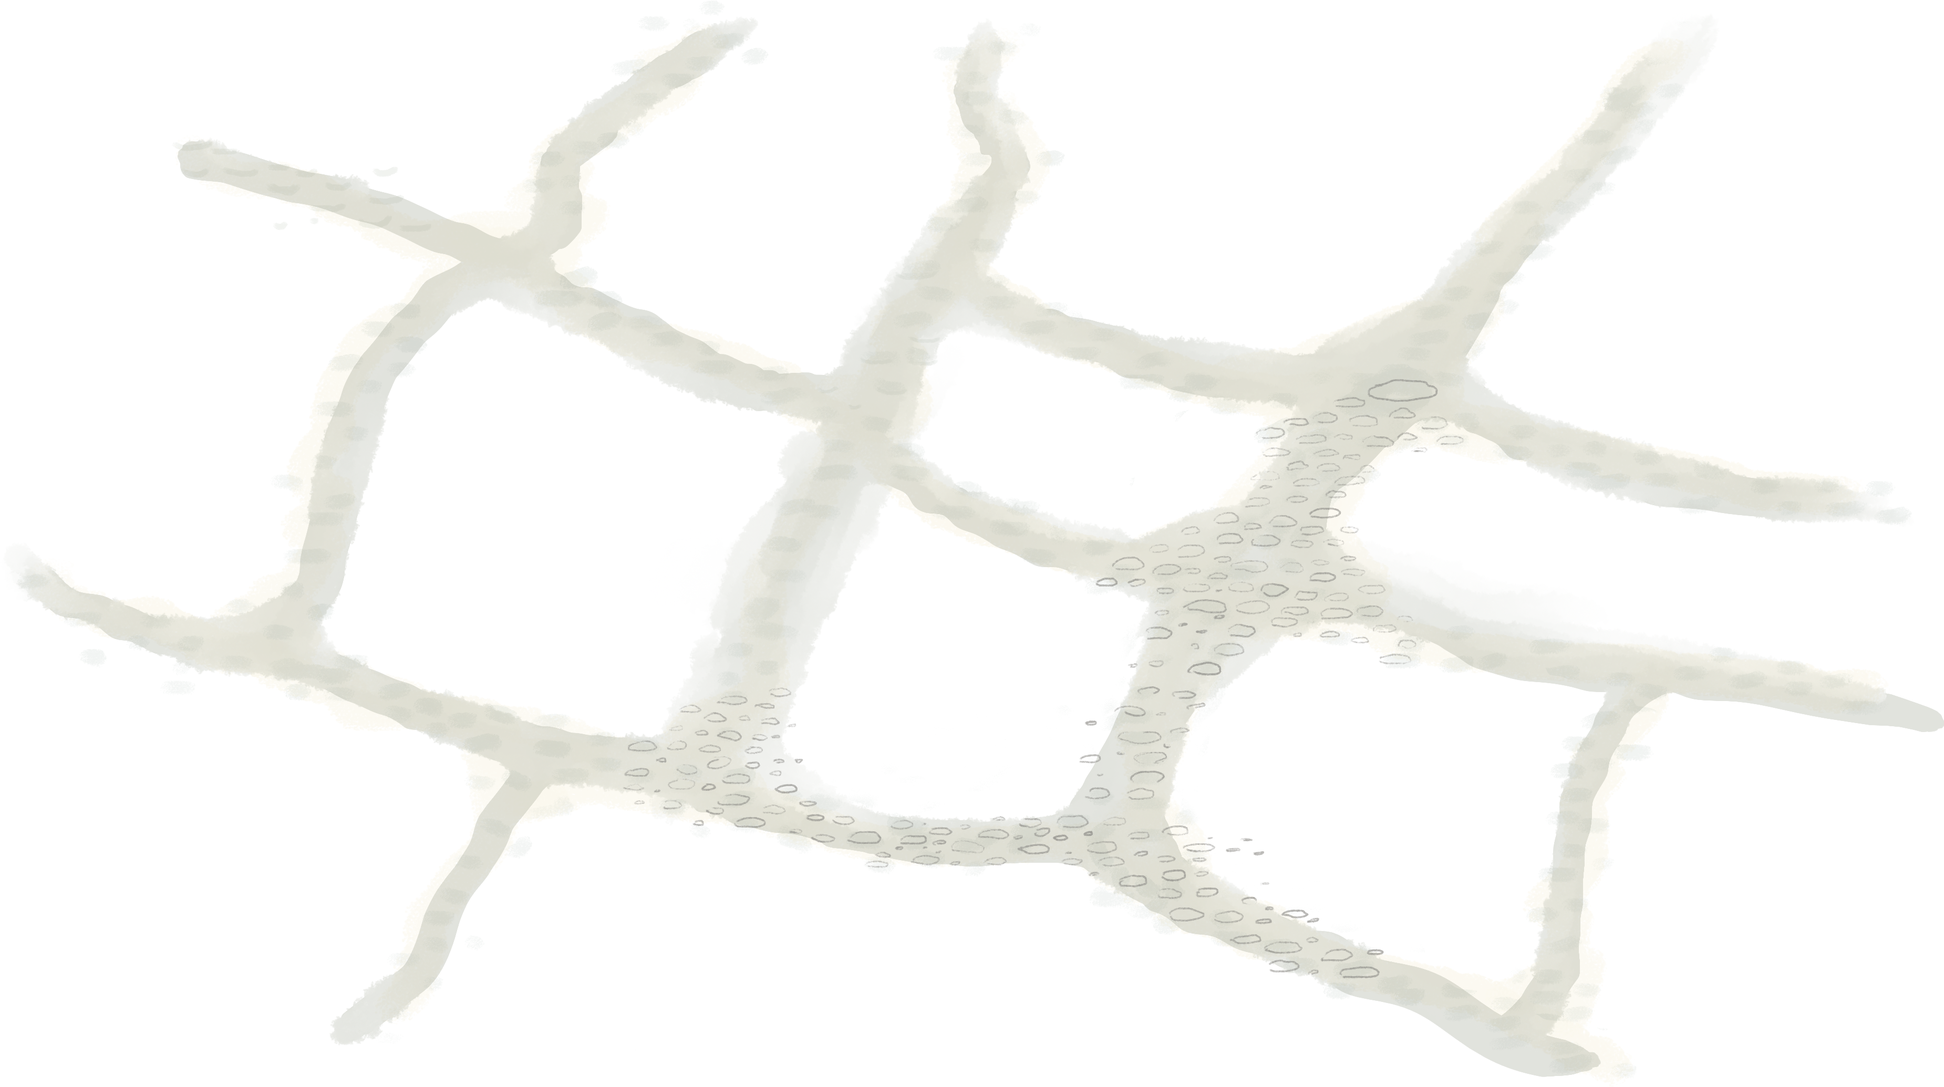
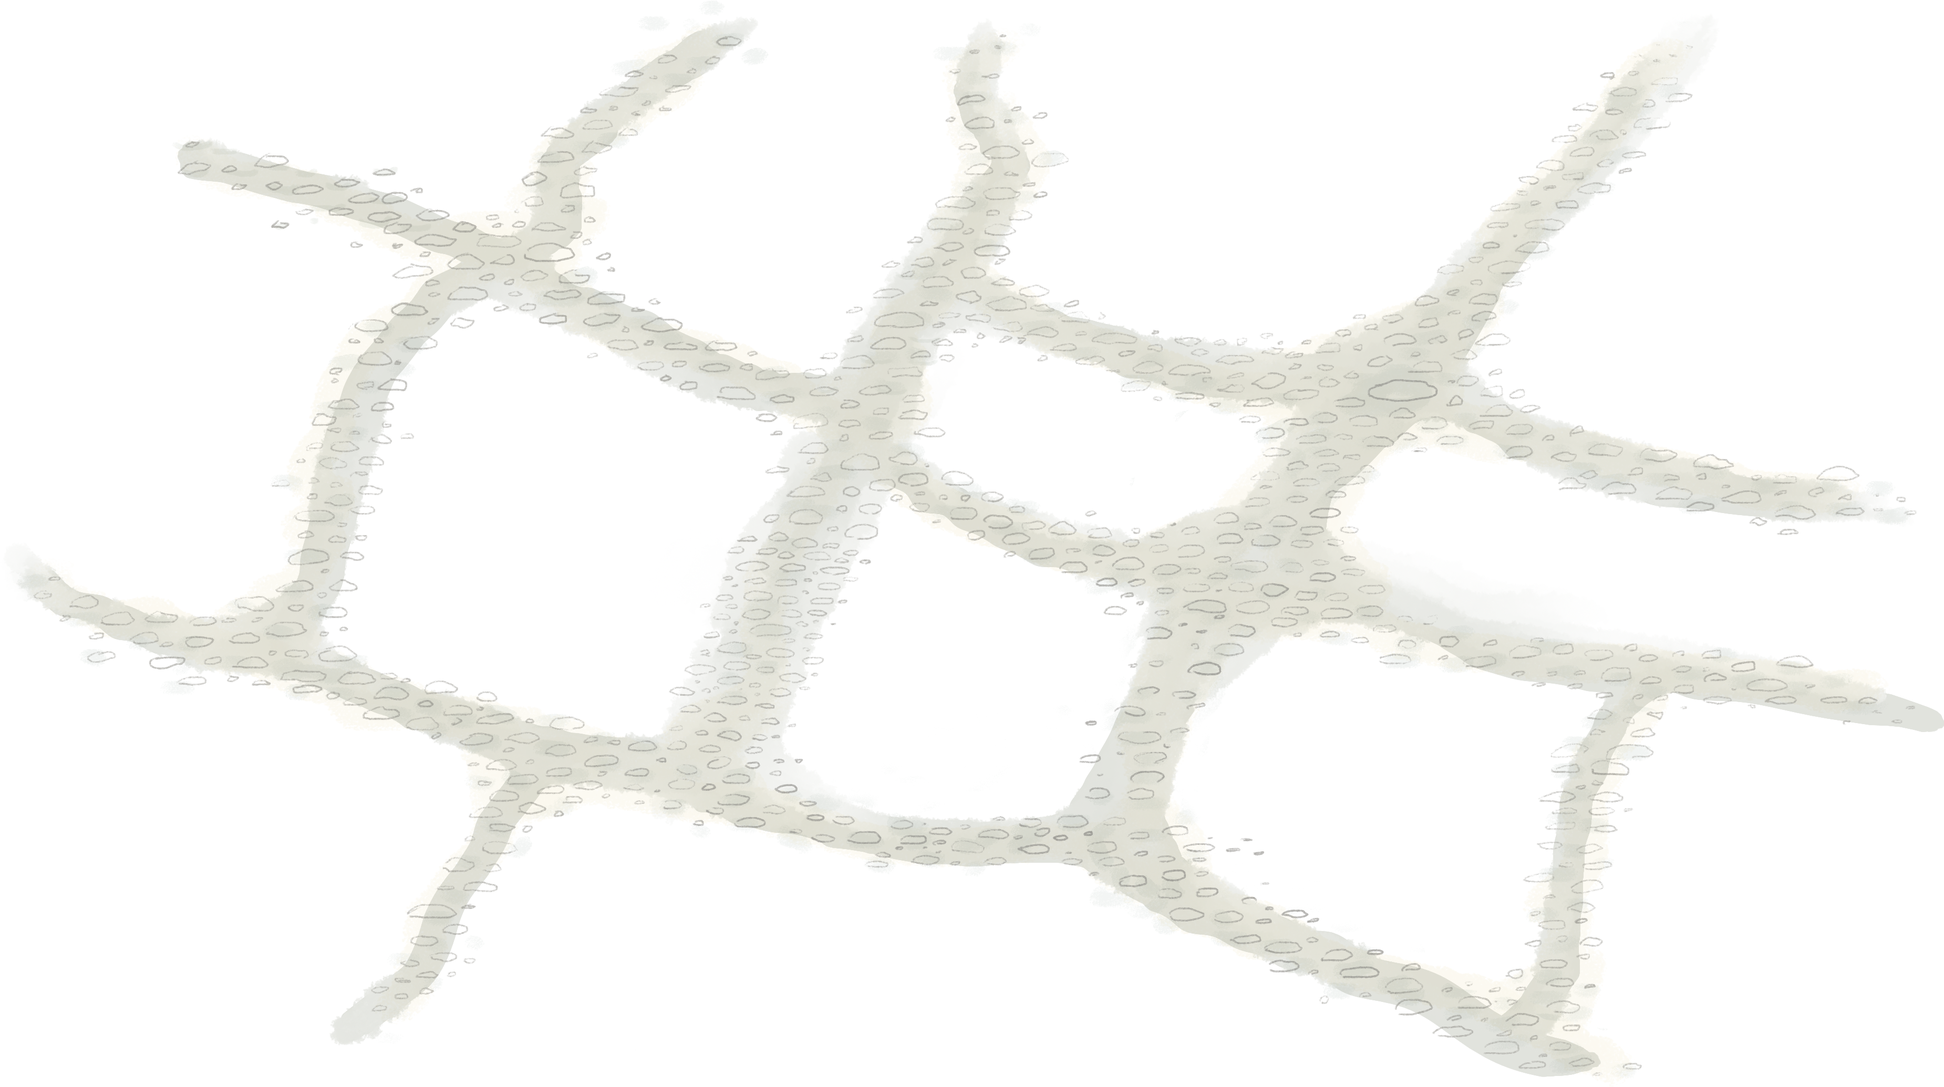
add new snails

diff --git a/dist/main.js b/dist/main.js
@@ -333,7 +333,7 @@ eval("\n\nvar bind = __webpack_require__(/*! ./helpers/bind */ \"./node_modules/
 /***/ ((__unused_webpack_module, __webpack_exports__, __webpack_require__) => {
 
 "use strict";
-eval("__webpack_require__.r(__webpack_exports__);\n/* harmony import */ var _sass_style_sass__WEBPACK_IMPORTED_MODULE_0__ = __webpack_require__(/*! ./sass/style.sass */ \"./src/sass/style.sass\");\n/* harmony import */ var _js_modules_global_mjs__WEBPACK_IMPORTED_MODULE_1__ = __webpack_require__(/*! ./js/modules/global.mjs */ \"./src/js/modules/global.mjs\");\n/* harmony import */ var _js_modules_map_mjs__WEBPACK_IMPORTED_MODULE_2__ = __webpack_require__(/*! ./js/modules/map.mjs */ \"./src/js/modules/map.mjs\");\n/* harmony import */ var _js_modules_npc_mjs__WEBPACK_IMPORTED_MODULE_3__ = __webpack_require__(/*! ./js/modules/npc.mjs */ \"./src/js/modules/npc.mjs\");\n\n\n\n // import { test } from './js/modules/test.mjs';\n\n(0,_js_modules_map_mjs__WEBPACK_IMPORTED_MODULE_2__.createMap)();\n(0,_js_modules_npc_mjs__WEBPACK_IMPORTED_MODULE_3__.createNPC)();\nwindow.setTimeout(function () {\n  (0,_js_modules_npc_mjs__WEBPACK_IMPORTED_MODULE_3__.createNormalHouse)();\n}, 500); // test()\n\n_js_modules_global_mjs__WEBPACK_IMPORTED_MODULE_1__.app.stage.addChild(_js_modules_global_mjs__WEBPACK_IMPORTED_MODULE_1__.allContainer);\n\n//# sourceURL=webpack:///./src/index.js?");
+eval("__webpack_require__.r(__webpack_exports__);\n/* harmony import */ var _sass_style_sass__WEBPACK_IMPORTED_MODULE_0__ = __webpack_require__(/*! ./sass/style.sass */ \"./src/sass/style.sass\");\n/* harmony import */ var _js_modules_global_mjs__WEBPACK_IMPORTED_MODULE_1__ = __webpack_require__(/*! ./js/modules/global.mjs */ \"./src/js/modules/global.mjs\");\n/* harmony import */ var _js_modules_map_mjs__WEBPACK_IMPORTED_MODULE_2__ = __webpack_require__(/*! ./js/modules/map.mjs */ \"./src/js/modules/map.mjs\");\n/* harmony import */ var _js_modules_npc_mjs__WEBPACK_IMPORTED_MODULE_3__ = __webpack_require__(/*! ./js/modules/npc.mjs */ \"./src/js/modules/npc.mjs\");\n\n\n\n\n(0,_js_modules_map_mjs__WEBPACK_IMPORTED_MODULE_2__.createMap)();\n(0,_js_modules_npc_mjs__WEBPACK_IMPORTED_MODULE_3__.createNPC)();\nwindow.setTimeout(function () {\n  (0,_js_modules_npc_mjs__WEBPACK_IMPORTED_MODULE_3__.createNormalHouse)();\n}, 500); // create cursor following\n// let cursorTexture = new PIXI.Texture.from(vm.$data.interaction.cursorImg)\n// let cursorSprite = new PIXI.Sprite(cursorTexture)\n// cursorSprite.anchor.set(0.5)\n// window.addEventListener(\"mousemove\", (evt)=>{\n//     console.log(evt)\n//     cursorSprite.x = evt.clientX\n//     cursorSprite.y = evt.clientY\n// })\n// window.setTimeout(()=>{\n//     allContainer.addChild(cursorSprite)\n// }, 1500)\n\n_js_modules_global_mjs__WEBPACK_IMPORTED_MODULE_1__.app.stage.addChild(_js_modules_global_mjs__WEBPACK_IMPORTED_MODULE_1__.allContainer);\n\n//# sourceURL=webpack:///./src/index.js?");
 
 /***/ }),
 
@@ -377,7 +377,7 @@ eval("__webpack_require__.r(__webpack_exports__);\n/* harmony export */ __webpac
 /***/ ((__unused_webpack___webpack_module__, __webpack_exports__, __webpack_require__) => {
 
 "use strict";
-eval("__webpack_require__.r(__webpack_exports__);\n/* harmony export */ __webpack_require__.d(__webpack_exports__, {\n/* harmony export */   \"canvasContainer\": () => (/* binding */ canvasContainer),\n/* harmony export */   \"canvasWidth\": () => (/* binding */ canvasWidth),\n/* harmony export */   \"canvasHeight\": () => (/* binding */ canvasHeight),\n/* harmony export */   \"app\": () => (/* binding */ app),\n/* harmony export */   \"scale\": () => (/* binding */ scale),\n/* harmony export */   \"allContainer\": () => (/* binding */ allContainer),\n/* harmony export */   \"getRandom\": () => (/* binding */ getRandom),\n/* harmony export */   \"arrayEquals\": () => (/* binding */ arrayEquals)\n/* harmony export */ });\n/* harmony import */ var _map_mjs__WEBPACK_IMPORTED_MODULE_0__ = __webpack_require__(/*! ./map.mjs */ \"./src/js/modules/map.mjs\");\n\n\nlet canvasContainer = document.querySelector(\"#canvasContainer\"),\ncanvasWidth = canvasContainer.offsetWidth,\ncanvasHeight = canvasContainer.offsetHeight\n// PIXI init\nlet app = new PIXI.Application({\nbackgroundColor: 0xe2dcc6,\nantialias: true,\nautoResize: true\n})\napp.renderer.resize(window.innerWidth, window.innerHeight);\ncanvasContainer.appendChild(app.view)\n// PIXI size for resizing\nlet scale = 0.3;\n\napp.renderer.autoResize = true; //隨視窗改變大小\napp.renderer.resize(window.innerWidth, window.innerHeight); //全螢幕\n\n// create container for map\nlet allContainer = new PIXI.Container()\nallContainer.interactive = true\nallContainer.buttonMode = true\nallContainer\n.on('pointerdown', _map_mjs__WEBPACK_IMPORTED_MODULE_0__.onDragStart)\n.on('pointerup', _map_mjs__WEBPACK_IMPORTED_MODULE_0__.onDragEnd)\n.on('pointerupoutside', _map_mjs__WEBPACK_IMPORTED_MODULE_0__.onDragEnd)\n.on('pointermove', _map_mjs__WEBPACK_IMPORTED_MODULE_0__.onDragMove);\nallContainer.x = window.innerWidth/2\nallContainer.y = window.innerHeight/2\n\n// get random stences\nfunction getRandom(min, max){\n    return Math.floor(Math.random()*(max-min+1))+min\n}\n\nfunction arrayEquals(a, b) {\n    return Array.isArray(a) &&\n        Array.isArray(b) &&\n        a.length === b.length &&\n        a.every((val, index) => val === b[index]);\n}\n\n\n\n//# sourceURL=webpack:///./src/js/modules/global.mjs?");
+eval("__webpack_require__.r(__webpack_exports__);\n/* harmony export */ __webpack_require__.d(__webpack_exports__, {\n/* harmony export */   \"canvasContainer\": () => (/* binding */ canvasContainer),\n/* harmony export */   \"canvasWidth\": () => (/* binding */ canvasWidth),\n/* harmony export */   \"canvasHeight\": () => (/* binding */ canvasHeight),\n/* harmony export */   \"app\": () => (/* binding */ app),\n/* harmony export */   \"scale\": () => (/* binding */ scale),\n/* harmony export */   \"allContainer\": () => (/* binding */ allContainer),\n/* harmony export */   \"getRandom\": () => (/* binding */ getRandom),\n/* harmony export */   \"arrayEquals\": () => (/* binding */ arrayEquals)\n/* harmony export */ });\n/* harmony import */ var _map_mjs__WEBPACK_IMPORTED_MODULE_0__ = __webpack_require__(/*! ./map.mjs */ \"./src/js/modules/map.mjs\");\n\n\nlet canvasContainer = document.querySelector(\"#canvasContainer\"),\ncanvasWidth = canvasContainer.offsetWidth,\ncanvasHeight = canvasContainer.offsetHeight\n// PIXI init\nlet app = new PIXI.Application({\nbackgroundColor: 0xe2dcc6,\nantialias: true,\nautoResize: true\n})\napp.renderer.resize(window.innerWidth, window.innerHeight);\ncanvasContainer.appendChild(app.view)\n// PIXI size for resizing\nlet scale = 0.35;\n\napp.renderer.autoResize = true; //隨視窗改變大小\napp.renderer.resize(window.innerWidth, window.innerHeight); //全螢幕\n\n// create container for map\nlet allContainer = new PIXI.Container()\nallContainer.interactive = true\nallContainer.buttonMode = true\nallContainer\n.on('pointerdown', _map_mjs__WEBPACK_IMPORTED_MODULE_0__.onDragStart)\n.on('pointerup', _map_mjs__WEBPACK_IMPORTED_MODULE_0__.onDragEnd)\n.on('pointerupoutside', _map_mjs__WEBPACK_IMPORTED_MODULE_0__.onDragEnd)\n.on('pointermove', _map_mjs__WEBPACK_IMPORTED_MODULE_0__.onDragMove);\nallContainer.x = window.innerWidth/2\nallContainer.y = window.innerHeight/2\n\n// get random stences\nfunction getRandom(min, max){\n    return Math.floor(Math.random()*(max-min+1))+min\n}\n\nfunction arrayEquals(a, b) {\n    return Array.isArray(a) &&\n        Array.isArray(b) &&\n        a.length === b.length &&\n        a.every((val, index) => val === b[index]);\n}\n\n\n\n//# sourceURL=webpack:///./src/js/modules/global.mjs?");
 
 /***/ }),
 
@@ -399,7 +399,7 @@ eval("__webpack_require__.r(__webpack_exports__);\n/* harmony export */ __webpac
 /***/ ((__unused_webpack___webpack_module__, __webpack_exports__, __webpack_require__) => {
 
 "use strict";
-eval("__webpack_require__.r(__webpack_exports__);\n/* harmony export */ __webpack_require__.d(__webpack_exports__, {\n/* harmony export */   \"createNPC\": () => (/* binding */ createNPC),\n/* harmony export */   \"createNormalHouse\": () => (/* binding */ createNormalHouse),\n/* harmony export */   \"createItem\": () => (/* binding */ createItem)\n/* harmony export */ });\n/* harmony import */ var _global_mjs__WEBPACK_IMPORTED_MODULE_0__ = __webpack_require__(/*! ./global.mjs */ \"./src/js/modules/global.mjs\");\n/* harmony import */ var _sound_mjs__WEBPACK_IMPORTED_MODULE_1__ = __webpack_require__(/*! ./sound.mjs */ \"./src/js/modules/sound.mjs\");\n/* harmony import */ var _data_mjs__WEBPACK_IMPORTED_MODULE_2__ = __webpack_require__(/*! ./data.mjs */ \"./src/js/modules/data.mjs\");\n/* harmony import */ var _game_mjs__WEBPACK_IMPORTED_MODULE_3__ = __webpack_require__(/*! ./game.mjs */ \"./src/js/modules/game.mjs\");\n\n\n\n\n\n// Snail\n// function createSnail(){\n//     let snails\n//     let waitSnails = async ()=>{\n//         let res = await fetchSnails()\n//         snails = res\n//         for (let i =0; i<snails.length; i++){\n//             createItem(snails[i])\n//         }\n//     }\n//     waitSnails()\n// }\n\nfunction createNPC(){\n    let npcs\n    let waitNPC = async ()=>{\n        let res = await (0,_data_mjs__WEBPACK_IMPORTED_MODULE_2__.fetchNPC)()\n        npcs = res\n        for (let i =0; i<npcs.length; i++){\n            createItem(npcs[i])\n        }\n    }\n    waitNPC()\n}\n\nfunction createNormalHouse(){\n    for (let i =0; i<_data_mjs__WEBPACK_IMPORTED_MODULE_2__.normalHouses.length; i++){\n        let obj = {\n            name: 'house_normal',\n            interactive: false,\n            x: _data_mjs__WEBPACK_IMPORTED_MODULE_2__.normalHouses[i].x,\n            y: _data_mjs__WEBPACK_IMPORTED_MODULE_2__.normalHouses[i].y\n        }\n        createItem(obj)\n    }\n}\n\nfunction createItem(el){\n    let texture = new PIXI.Texture.from(`./src/img/${el.name}.png`)\n    let item = new PIXI.Sprite(texture)\n    item.name = el.name\n    item.x = el.x*_global_mjs__WEBPACK_IMPORTED_MODULE_0__.scale\n    item.y = el.y*_global_mjs__WEBPACK_IMPORTED_MODULE_0__.scale\n    item.scale.set(_global_mjs__WEBPACK_IMPORTED_MODULE_0__.scale)\n    item.anchor.set(0.5)\n    if (el.interactive !== false){\n        item.interactive = true\n        item.buttonMode = true\n    }\n    item\n        .on(\"pointerdown\", ()=>{\n            vm.$data.interaction.nowClicked = true\n            vm.$data.interaction.showPopup = !vm.$data.interaction.showPopup\n            vm.$data.itemSpeak = el.name\n            vm.$data.nowNPC = el\n            vm.$data.showMissionBtn = undefined //初始化關閉選項\n            // 抽籤決定 NPC 要講哪一句話\n            if (el.speaks){\n                speakRandomly(el)\n            }else{\n                vm.$data.nowSpeak = undefined\n            }\n            // 決定要不要放動畫的角色\n            if (el.animated == 1){\n                vm.$data.animatedSpriteSpeak = true\n            }else {\n                vm.$data.animatedSpriteSpeak = false\n            }\n            if (el.gameSpeaks){\n                (0,_game_mjs__WEBPACK_IMPORTED_MODULE_3__.initMission)(el) // 主線探索遊戲邏輯\n            }else{\n                // 是否有可以認養的按鈕\n                if (el.adoptable){\n                    vm.$data.adoptable = true\n                    vm.$data.program = el.program\n                    vm.$data.btnTxt = undefined\n                }else{\n                    vm.$data.adoptable = false\n                    vm.$data.btnTxt = \"關閉\"\n                }\n                console.log(\"講一下廢話\")\n            }\n            (0,_sound_mjs__WEBPACK_IMPORTED_MODULE_1__.clickSoundEffect)() //點擊音效\n            window.setTimeout(()=>{ // 點擊後離開點擊狀態，解決抓住地圖不放的問題\n                vm.$data.interaction.nowClicked = false\n            }, 300)\n        })\n    item.mouseover = function(){ //hover時的放大效果\n        gsap.to(this, .2, {\n            pixi: {\n                scaleX: _global_mjs__WEBPACK_IMPORTED_MODULE_0__.scale*1.18,\n            },\n            yoyo: true,\n            repeat: 2,\n            onComplete: function(){\n                item.scale.set(_global_mjs__WEBPACK_IMPORTED_MODULE_0__.scale)\n            }\n        })\n    }\n\n    _global_mjs__WEBPACK_IMPORTED_MODULE_0__.allContainer.addChild(item)\n}\n\nfunction speakRandomly(el){\n    let randomSentenceNum = (0,_global_mjs__WEBPACK_IMPORTED_MODULE_0__.getRandom)(0, el.speaks.length-1)\n    vm.$data.nowSpeak = el.speaks[randomSentenceNum]\n}\n\n\n\n//# sourceURL=webpack:///./src/js/modules/npc.mjs?");
+eval("__webpack_require__.r(__webpack_exports__);\n/* harmony export */ __webpack_require__.d(__webpack_exports__, {\n/* harmony export */   \"createNPC\": () => (/* binding */ createNPC),\n/* harmony export */   \"createNormalHouse\": () => (/* binding */ createNormalHouse),\n/* harmony export */   \"createItem\": () => (/* binding */ createItem)\n/* harmony export */ });\n/* harmony import */ var _global_mjs__WEBPACK_IMPORTED_MODULE_0__ = __webpack_require__(/*! ./global.mjs */ \"./src/js/modules/global.mjs\");\n/* harmony import */ var _sound_mjs__WEBPACK_IMPORTED_MODULE_1__ = __webpack_require__(/*! ./sound.mjs */ \"./src/js/modules/sound.mjs\");\n/* harmony import */ var _data_mjs__WEBPACK_IMPORTED_MODULE_2__ = __webpack_require__(/*! ./data.mjs */ \"./src/js/modules/data.mjs\");\n/* harmony import */ var _game_mjs__WEBPACK_IMPORTED_MODULE_3__ = __webpack_require__(/*! ./game.mjs */ \"./src/js/modules/game.mjs\");\n\n\n\n\n\n// Snail\n// function createSnail(){\n//     let snails\n//     let waitSnails = async ()=>{\n//         let res = await fetchSnails()\n//         snails = res\n//         for (let i =0; i<snails.length; i++){\n//             createItem(snails[i])\n//         }\n//     }\n//     waitSnails()\n// }\n\nfunction createNPC(){\n    let npcs\n    let waitNPC = async ()=>{\n        let res = await (0,_data_mjs__WEBPACK_IMPORTED_MODULE_2__.fetchNPC)()\n        npcs = res\n        for (let i =0; i<npcs.length; i++){\n            createItem(npcs[i])\n        }\n    }\n    waitNPC()\n}\n\nfunction createNormalHouse(){\n    for (let i =0; i<_data_mjs__WEBPACK_IMPORTED_MODULE_2__.normalHouses.length; i++){\n        let obj = {\n            name: 'house_normal',\n            interactive: false,\n            x: _data_mjs__WEBPACK_IMPORTED_MODULE_2__.normalHouses[i].x,\n            y: _data_mjs__WEBPACK_IMPORTED_MODULE_2__.normalHouses[i].y\n        }\n        createItem(obj)\n    }\n}\n\nfunction createItem(el){\n    let texture = new PIXI.Texture.from(`./src/img/${el.name}.png`)\n    let item = new PIXI.Sprite(texture)\n    item.name = el.name\n    item.x = el.x*_global_mjs__WEBPACK_IMPORTED_MODULE_0__.scale\n    item.y = el.y*_global_mjs__WEBPACK_IMPORTED_MODULE_0__.scale\n    item.scale.set(_global_mjs__WEBPACK_IMPORTED_MODULE_0__.scale)\n    item.anchor.set(0.5)\n    if (el.interactive !== false){\n        item.interactive = true\n        item.buttonMode = true\n    }\n    item\n        .on(\"pointerdown\", ()=>{\n            vm.$data.interaction.nowClicked = true\n            vm.$data.interaction.showPopup = !vm.$data.interaction.showPopup\n            vm.$data.interaction.cursorImg = \"src/img/icons/checked.svg\"\n            vm.$data.itemSpeak = el.name\n            vm.$data.nowNPC = el\n            vm.$data.showMissionBtn = undefined //初始化關閉選項\n            // 抽籤決定 NPC 要講哪一句話\n            if (el.speaks){\n                speakRandomly(el)\n            }else{\n                vm.$data.nowSpeak = undefined\n            }\n            // 決定要不要放動畫的角色\n            if (el.animated == 1){\n                vm.$data.animatedSpriteSpeak = true\n            }else {\n                vm.$data.animatedSpriteSpeak = false\n            }\n            if (el.gameSpeaks){\n                (0,_game_mjs__WEBPACK_IMPORTED_MODULE_3__.initMission)(el) // 主線探索遊戲邏輯\n            }else{\n                // 是否有可以認養的按鈕\n                if (el.adoptable){\n                    vm.$data.adoptable = true\n                    vm.$data.program = el.program\n                    vm.$data.btnTxt = undefined\n                }else{\n                    vm.$data.adoptable = false\n                    vm.$data.btnTxt = \"關閉\"\n                }\n                console.log(\"講一下廢話\")\n            }\n            (0,_sound_mjs__WEBPACK_IMPORTED_MODULE_1__.clickSoundEffect)() //點擊音效\n            window.setTimeout(()=>{ // 點擊後離開點擊狀態，解決抓住地圖不放的問題\n                vm.$data.interaction.nowClicked = false\n            }, 300)\n        })\n    item.mouseover = function(){ //hover時的放大效果\n        gsap.to(this, .2, {\n            pixi: {\n                scaleX: _global_mjs__WEBPACK_IMPORTED_MODULE_0__.scale*1.18,\n            },\n            yoyo: true,\n            repeat: 2,\n            onComplete: function(){\n                item.scale.set(_global_mjs__WEBPACK_IMPORTED_MODULE_0__.scale)\n            }\n        })\n    }\n\n    _global_mjs__WEBPACK_IMPORTED_MODULE_0__.allContainer.addChild(item)\n}\n\nfunction speakRandomly(el){\n    let randomSentenceNum = (0,_global_mjs__WEBPACK_IMPORTED_MODULE_0__.getRandom)(0, el.speaks.length-1)\n    vm.$data.nowSpeak = el.speaks[randomSentenceNum]\n}\n\n\n\n//# sourceURL=webpack:///./src/js/modules/npc.mjs?");
 
 /***/ }),
 

diff --git a/index.html b/index.html
@@ -12,6 +12,7 @@
             left: 0;
             top: 0;
             z-index: 97;
+            /* display: none; */
         }
     </style>
 </head>
@@ -118,7 +119,8 @@
                     nowLoading: true,
                     showPopup: false,
                     showPersonalPage: false,
-                    nowAns: true
+                    nowAns: true,
+                    cursorImg: 'src/img/icons/menu.png'
                 },
                 adoptable: false,
                 program: undefined,
@@ -130,9 +132,9 @@
                 nowNPC: undefined,
                 npcShowLink: {},
                 achievementMap: {
-                    block1: ['bike'],
-                    block2: ['board', 'house_cinemaroll'],
-                    block3: ['house_literature']
+                    block1: ['snail_mryeh', 'snail_oasis', 'snail_text', 'snail_book', 'snail_paint'],
+                    block2: ['snail_cinnamon', 'snail_scon', 'snail_dorayaki'],
+                    block3: [],
                 },
                 user: {
                     missions: {
@@ -184,9 +186,18 @@
                         let userGotArr = this.user.achievements[`block${i+1}`]
                         if (userGotArr.length > 0){
                             if (map.length == userGotArr.length && map.every(val => userGotArr.includes(val))){
-                                output[`block${i+1}`] = `探索玩區域${i+1}了！`
+                                let blockName = ""
+                                switch (i+1) {
+                                    case 1:
+                                        blockName = "文學區"
+                                        break;
+                                    case 2:
+                                        blockName = "慢活甜點區"
+                                        break;
+                                }   
+                                output[`block${i+1}`] = `探索完${blockName}了！`
                             }else{
-                                output[`block${i+1}`] = `尚未探索玩區域${i+1}`
+                                output[`block${i+1}`] = `尚未探索完區域${i+1}`
                             }
                         }else{
                             output[`block${i+1}`] = `區域${i+1}尚未開始`
@@ -264,7 +275,7 @@
             methods: {
                 switchPopup(){
                     this.interaction.showPopup = !this.interaction.showPopup
-                    // this.npcShowLink = {}
+                    this.npcShowLink = {}
                     //如果點到講廢話的NPC然後關閉視窗
                     if (this.nowNPC.enterGame !== 1 && this.user.achievements[`block${this.nowNPC.mission}`].indexOf(this.nowNPC.name) == -1){
                             this.user.achievements[`block${this.nowNPC.mission}`].push(this.nowNPC.name)

diff --git a/src/index.js b/src/index.js
@@ -11,7 +11,6 @@ import {
     createNPC,
     createNormalHouse,
 } from "./js/modules/npc.mjs";
-// import { test } from './js/modules/test.mjs';
 
 createMap();
 createNPC();
@@ -19,7 +18,17 @@ window.setTimeout(()=>{
     createNormalHouse();
 }, 500)
 
-
-// test()
+// create cursor following
+// let cursorTexture = new PIXI.Texture.from(vm.$data.interaction.cursorImg)
+// let cursorSprite = new PIXI.Sprite(cursorTexture)
+// cursorSprite.anchor.set(0.5)
+// window.addEventListener("mousemove", (evt)=>{
+//     console.log(evt)
+//     cursorSprite.x = evt.clientX
+//     cursorSprite.y = evt.clientY
+// })
+// window.setTimeout(()=>{
+//     allContainer.addChild(cursorSprite)
+// }, 1500)
 
 app.stage.addChild(allContainer);
